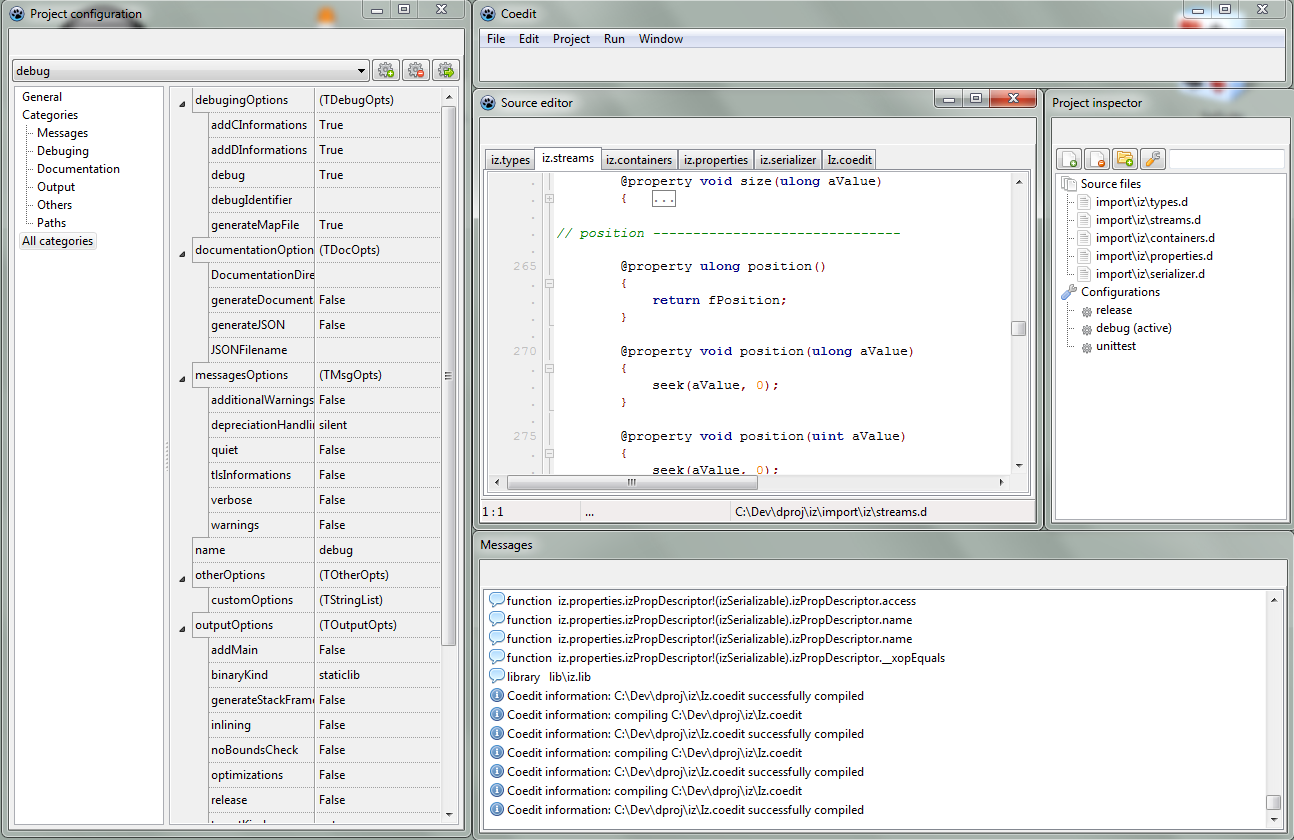
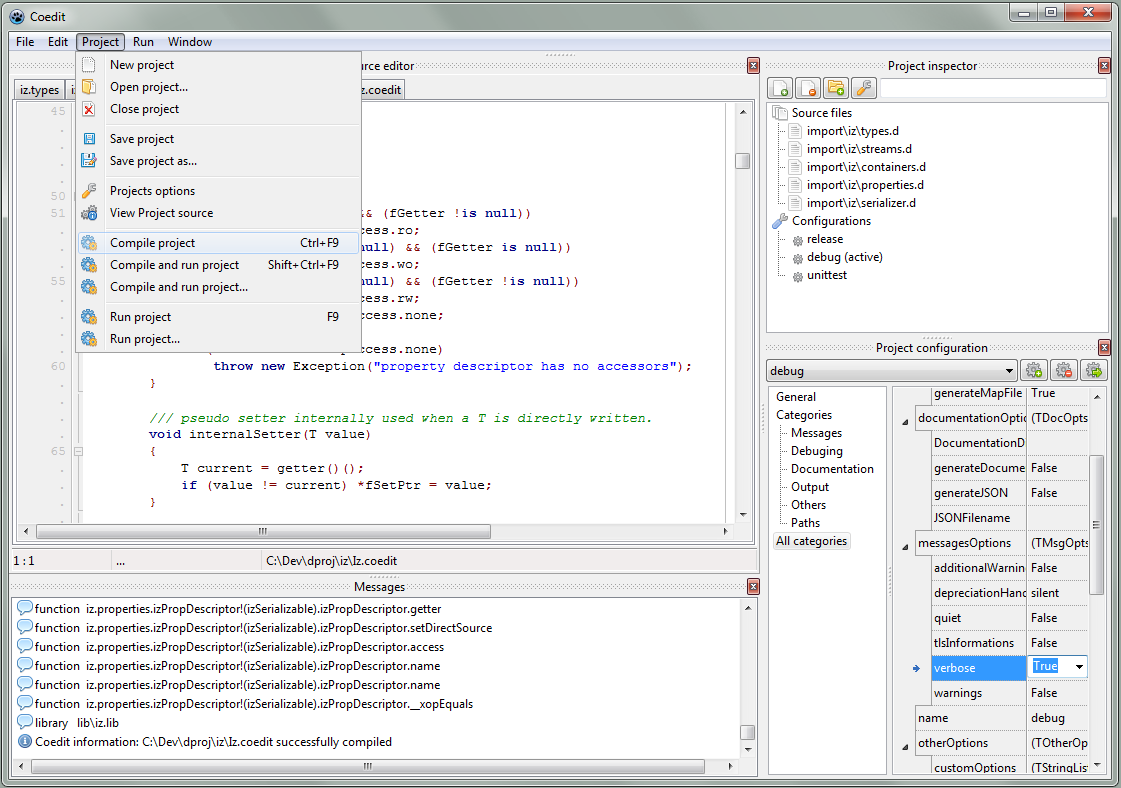
Added AnchorDocking support to TCEWidget

diff --git a/README.md b/README.md
@@ -29,3 +29,8 @@ Setup
 - both [dmd](http://dlang.org/download.html) and [Lazarus](http://www.lazarus.freepascal.org) must be setup.
 - open "coedit.lpr" in Lazarus.
 - press the Run button.
+
+Preview
+-------
+
+[Interface screen-cap., under Windows](lazproj/Gui.tease.png)
